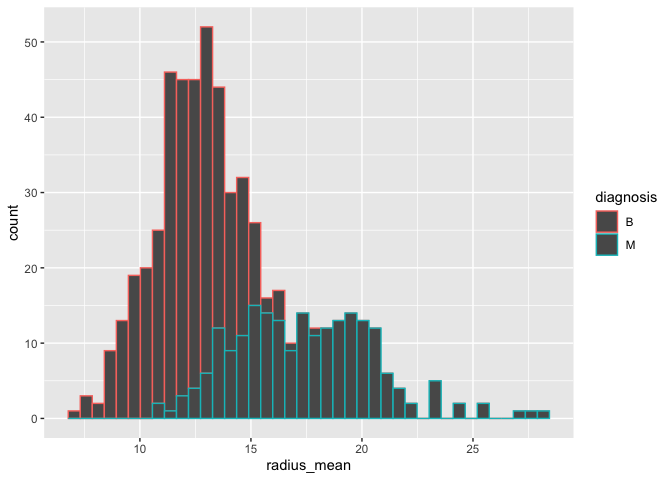
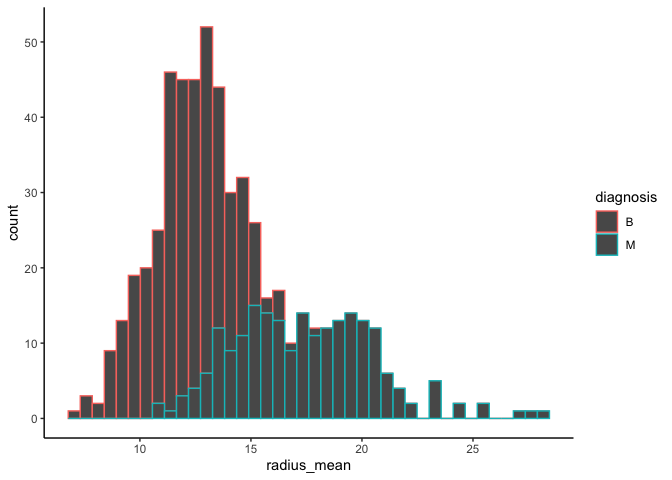
Further completed questions for milestone 2

diff --git a/mini-project-1.md b/mini-project-1.md
@@ -207,10 +207,10 @@ table(cancer_sample$diagnosis)
     ##   B   M 
     ## 357 212
 
-A few attributes of interest in cancer-sample dataset is: there are 32
-columns, with 1 character column (*diagnosis*) which we can turn into a
-categorical variable (factor), 1 id column and 30 numerical variables.
-There are 569 data entries (rows) in the dataset.
+- A few attributes of interest in cancer-sample dataset is: there are 32
+  columns, with 1 character column (*diagnosis*) which we can turn into
+  a categorical variable (factor), 1 id column and 30 numerical
+  variables. There are 569 data entries (rows) in the dataset.
 
 ``` r
 ### EXPLORE flow_sample HERE ###
@@ -235,12 +235,12 @@ table(flow_sample$station_id)
     ## 05BB001 
     ##     218
 
-A few attributes of interest in flow-sample dataset is: there are 7
-columns, with 3 character column (*station_id*, *extreme_type* and
-*sym*) which we can turn into categorical variables (factor)and 4
-numerical variables. Three of the four numerical variables are to
-represent date across the dataset. There are 218 data entries (rows) in
-the dataset.
+- A few attributes of interest in flow-sample dataset is: there are 7
+  columns, with 3 character column (*station_id*, *extreme_type* and
+  *sym*) which we can turn into categorical variables (factor)and 4
+  numerical variables. Three of the four numerical variables are to
+  represent date across the dataset. There are 218 data entries (rows)
+  in the dataset.
 
 ``` r
 ### EXPLORE building_permits HERE ###
@@ -264,11 +264,11 @@ glimpse(building_permits)
     ## $ year                        <dbl> 2017, 2017, 2017, 2017, 2017, 2017, 2017, …
     ## $ bi_id                       <dbl> 524, 535, 539, 541, 543, 546, 547, 548, 54…
 
-A few attributes of interest in building_permits dataset is: there are
-14 columns, with 10 character column, 1 date column and 3 numerical
-variables. It seems like some variables can be used for analysis and
-visualization while some others are more for reference purposes. There
-are 20680 data entries (rows) in the dataset.
+- A few attributes of interest in building_permits dataset is: there are
+  14 columns, with 10 character column, 1 date column and 3 numerical
+  variables. It seems like some variables can be used for analysis and
+  visualization while some others are more for reference purposes. There
+  are 20680 data entries (rows) in the dataset.
 
 ``` r
 ### EXPLORE parking_meters HERE ###
@@ -300,12 +300,12 @@ glimpse(parking_meters)
     ## $ geo_local_area <chr> "West End", "Strathcona", "Riley Park", "West Point Gre…
     ## $ meter_id       <chr> "670805", "471405", "C80145", "D03704", "301023", "5913…
 
-A few attributes of interest in parking_meters dataset is: there are 22
-columns, with 20 character column and 2 numerical variables. It seems
-like *meter_id* might be an id column while most other character columns
-can be used as categorical variables. There are 10032 data entries
-(rows) in the dataset.
-<!----------------------------------------------------------------------------->
+- A few attributes of interest in parking_meters dataset is: there are
+  22 columns, with 20 character column and 2 numerical variables. It
+  seems like *meter_id* might be an id column while most other character
+  columns can be used as categorical variables. There are 10032 data
+  entries (rows) in the dataset.
+  <!----------------------------------------------------------------------------->
 
 1.3 **(1 point)** Now that you’ve explored the 4 datasets that you were
 initially most interested in, let’s narrow it down to 1. What lead you
@@ -313,12 +313,12 @@ to choose this one? Briefly explain your choice below.
 
 <!-------------------------- Start your work below ---------------------------->
 
-I choose the *cancer_sample* dataset. There are many reasons behind this
-choice, including the existence of categorical variable and various
-quantitative variable that we can manipulate and visualize. These
-variables are presented clearer than the other datasets that we
-explored.
-<!----------------------------------------------------------------------------->
+- I choose the *cancer_sample* dataset. There are many reasons behind
+  this choice, including the existence of categorical variable and
+  various quantitative variable that we can manipulate and visualize.
+  These variables are presented clearer than the other datasets that we
+  explored.
+  <!----------------------------------------------------------------------------->
 
 1.4 **(2 points)** Time for a final decision! Going back to the
 beginning, it’s important to have an *end goal* in mind. For example, if
@@ -329,9 +329,9 @@ dataset. Note it down below.
 
 <!-------------------------- Start your work below ---------------------------->
 
-I wish to find out what are some variables within this cancer dataset
-that might potentially have an impact on cancer diagnosis.
-<!----------------------------------------------------------------------------->
+- I wish to find out what are some variables within this cancer dataset
+  that potentially have an impact on cancer diagnosis.
+  <!----------------------------------------------------------------------------->
 
 # Important note
 
@@ -404,16 +404,17 @@ Q1:
 ggplot(cancer_sample, aes(x = radius_mean)) + geom_histogram(bins = 40)
 ```
 
-![](mini-project-1_files/figure-gfm/unnamed-chunk-6-1.png)<!-- --> The
-distribution of *radius_mean* is plotted above.
+![](mini-project-1_files/figure-gfm/unnamed-chunk-6-1.png)<!-- -->
 
-When finding trends, it is often helpful to first look directly at the
-distribution of a variable to see its general trend and some potential
-differences and outliers for relationship between variables.
+- The distribution of *radius_mean* is plotted above.
 
-I choose radius mean as our first indicator since the radius intuitively
-have a significant impact of whether the cancer is diagnosed with benign
-or malignant.
+- When finding trends, it is often helpful to first look directly at the
+  distribution of a variable to see its general trend and some potential
+  differences and outliers for relationship between variables.
+
+- I choose radius mean as our first indicator since the radius
+  intuitively have a significant impact of whether the cancer is
+  diagnosed with benign or malignant.
 
 Q3:
 
@@ -423,38 +424,41 @@ nas <- colSums(is.na(cancer_sample))
 ggplot(data.frame(nas,cols = colnames(cancer_sample))) + geom_bar(aes(x = cols, y = nas),stat = "identity") + ylim(0, 5) + coord_flip()
 ```
 
-![](mini-project-1_files/figure-gfm/unnamed-chunk-7-1.png)<!-- --> As
-shown above using *colSums*, we have no NAs in our entire dataset.
+![](mini-project-1_files/figure-gfm/unnamed-chunk-7-1.png)<!-- -->
 
-It is always helpful to see how many NAs in our dataset and which
-variable they are from, so we could decide what to do with those data
-entry which includes the NA values. If a variable involves too many NAs,
-we often need to take causion when analysing and comparing it to others,
-since the remaining entries might not represent the entire dataset well.
+- As shown above using *colSums*, we have no NAs in our entire dataset.
 
-In our cancer dataset, we have no NA values across the entire dataset.
-This is a significant indicator that our dataset is tidy and further
-analysis and conclusion can be drawn with more confidence.
+- It is always helpful to see how many NAs in our dataset and which
+  variable they are from, so we could decide what to do with those data
+  entry which includes the NA values. If a variable involves too many
+  NAs, we often need to take causion when analysing and comparing it to
+  others, since the remaining entries might not represent the entire
+  dataset well.
+
+- In our cancer dataset, we have no NA values across the entire dataset.
+  This is a significant indicator that our dataset is tidy and further
+  analysis and conclusion can be drawn with more confidence.
 
 Q4:
 
 ``` r
 ### EXPLORE cancer_sample HERE ###
-ggplot(cancer_sample, aes(x = radius_mean, color = diagnosis)) + geom_histogram(bins = 40)
+ggplot(cancer_sample, aes(x = radius_mean, color = diagnosis)) + geom_histogram(bins = 40) + theme_classic()
 ```
 
-![](mini-project-1_files/figure-gfm/unnamed-chunk-8-1.png)<!-- --> This
-is significant results! We wish to see the relationship between
-*radius_mean*, the mean radius of cancer and the *diagnosis*, the
-diagnosis results of the specific cancer region. We can directly see
-that in the Benign case, the mean radius is strongly centered around 13,
-while in the malignant case it is much more spread out and higher in
-value.
+![](mini-project-1_files/figure-gfm/unnamed-chunk-8-1.png)<!-- -->
 
-Explore the relationship between variables are trivial in analysis. When
-we plot two quantitative variables on the same graph, we might find out
-is if a linear or exponential distribution is present, or if a strong
-correlation exists between the variables.
+- This is significant results! We wish to see the relationship between
+  *radius_mean*, the mean radius of cancer and the *diagnosis*, the
+  diagnosis results of the specific cancer region. We can directly see
+  that in the Benign case, the mean radius is strongly centered around
+  13, while in the malignant case it is much more spread out and higher
+  in value.
+
+- Explore the relationship between variables are trivial in analysis.
+  When we plot two quantitative variables on the same graph, we might
+  find out is if a linear or exponential distribution is present, or if
+  a strong correlation exists between the variables.
 
 Q7:
 
@@ -477,16 +481,16 @@ head(analysis)
     ## #   concave_points_mean <dbl>, symmetry_mean <dbl>,
     ## #   fractal_dimension_mean <dbl>
 
-I wish to find which mean variable has a significant impact or
-correlation to the diagnosis. The best case scenario is to filter out
-the outliers or make a threshold to study part of the data entries, but
-my current understanding of the dataset and clinical cancer knowledge is
-not enough to do so.
+- I wish to find which mean variable has a significant impact or
+  correlation to the diagnosis. The best case scenario is to filter out
+  the outliers or make a threshold to study part of the data entries,
+  but my current understanding of the dataset and clinical cancer
+  knowledge is not enough to do so.
 
-Making a new tibble with only the subset can assist us in simplifying
-and clarify our work when generating reports or working on analysis. If
-we wish to build models for prediction, focusing on less columns can
-help us build model more effectively.
+- Making a new tibble with only the subset can assist us in simplifying
+  and clarify our work when generating reports or working on analysis.
+  If we wish to build models for prediction, focusing on less columns
+  can help us build model more effectively.
 
 <!----------------------------------------------------------------------------->
 
@@ -499,6 +503,20 @@ research question that interested you (Task 1.4). Now it’s time to pick
 Write the 4 questions and any additional comments below.
 
 <!--- *****START HERE***** --->
+
+1.  In the mean variables, what are some of the highest correlated
+    variables with the diagnosis results?
+2.  What variables presents significant difference in distribution
+    between Benign and Malignant cases?
+3.  Is there any significant correlation between quantitative variables?
+4.  If we wish to predict on the outcome of diagnosis using the
+    quantitative variables given, how accurate can we accomplish?
+
+Over these research questions, we wish to dive deep into the
+distribution and correlation between variables, and eventually how well
+we can predict our outcome of diagnosis using them. We need to learn
+which is highest correlated with diagnosis, but there might also be high
+correlations between variables that we need to be cautious about.
 <!----------------------------->
 
 # Overall reproducibility/Cleanliness/Coherence Checklist
